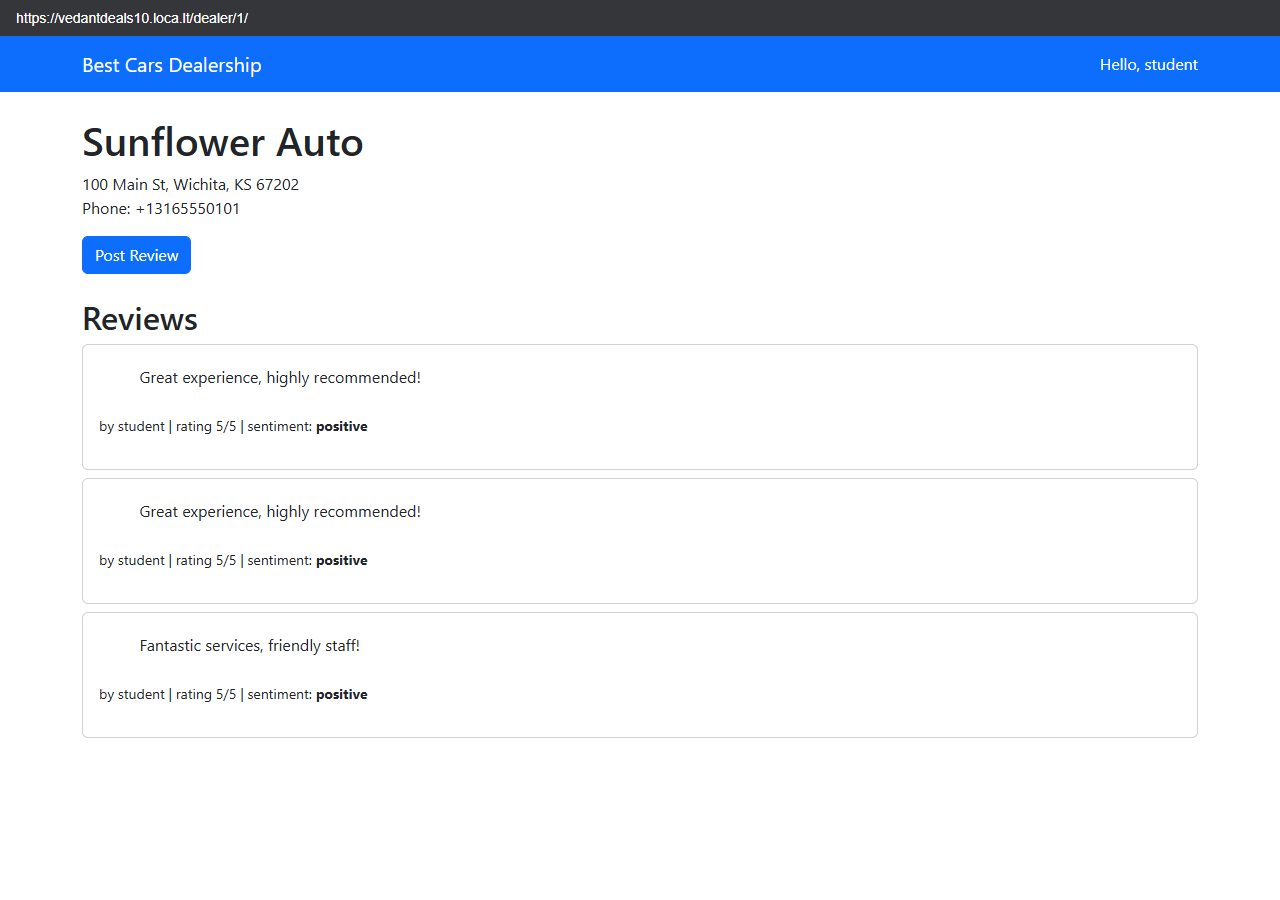
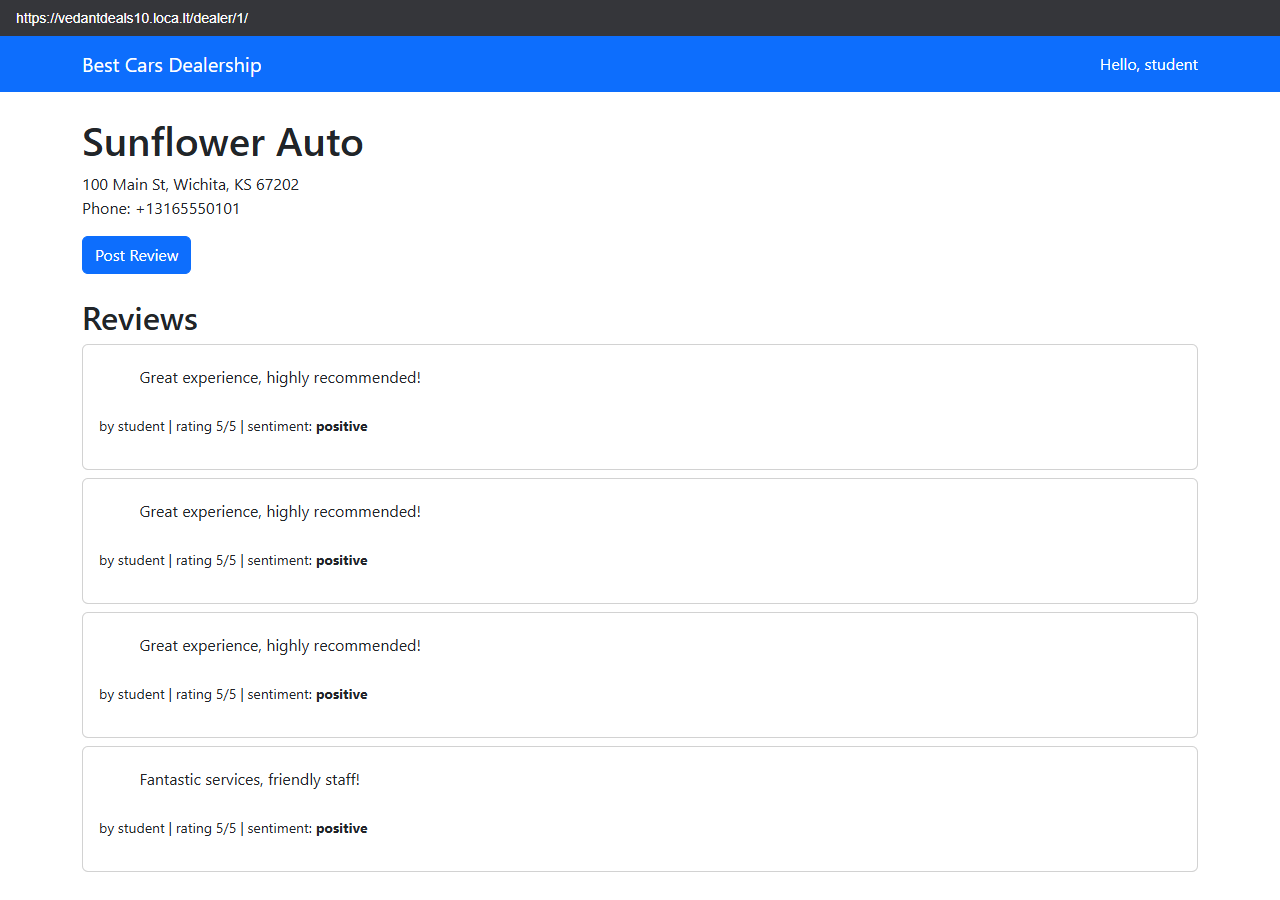
Peer review set: signup/logout pages, framed shots, CI and deploy evidence

Changed region(s): [[0.0625, 0.9022, 0.2812, 0.9333], [0.125, 0.7156, 0.3125, 0.7467], [0.125, 0.84, 0.2812, 0.8711]]

diff --git a/assignment-09-dealership-capstone/server/djangoapp/templates/djangoapp/signup.html b/assignment-09-dealership-capstone/server/djangoapp/templates/djangoapp/signup.html
@@ -1,0 +1,17 @@
+<!DOCTYPE html>
+<html lang="en">
+<head><meta charset="UTF-8" /><title>Sign Up - Best Cars Dealership</title></head>
+<body>
+  <h1>Sign Up</h1>
+  {% if error %}<p style="color:red">{{ error }}</p>{% endif %}
+  <form method="post">
+    {% csrf_token %}
+    <p>Username: <input type="text" name="username" /></p>
+    <p>First Name: <input type="text" name="first_name" /></p>
+    <p>Last Name: <input type="text" name="last_name" /></p>
+    <p>Email: <input type="email" name="email" /></p>
+    <p>Password: <input type="password" name="password" /></p>
+    <button type="submit">Register</button>
+  </form>
+</body>
+</html>

diff --git a/assignment-09-dealership-capstone/server/djangoapp/templates/djangoapp/home.html b/assignment-09-dealership-capstone/server/djangoapp/templates/djangoapp/home.html
@@ -11,7 +11,7 @@
     <div class="container">
       <a class="navbar-brand" href="/">Best Cars Dealership</a>
       <span class="navbar-text text-white">
-        {% if user.is_authenticated %}Hello, {{ user.username }} | <a class="text-white" href="/api/logout/">Logout</a>{% else %}<a class="text-white" href="/login/">Login</a>{% endif %}
+        {% if user.is_authenticated %}Hello, {{ user.username }} | <a class="text-white" href="/logout/">Logout</a>{% else %}<a class="text-white" href="/login/">Login</a>{% endif %}
       </span>
     </div>
   </nav>

diff --git a/assignment-09-dealership-capstone/server/djangoapp/templates/djangoapp/logged_out.html b/assignment-09-dealership-capstone/server/djangoapp/templates/djangoapp/logged_out.html
@@ -1,0 +1,9 @@
+<!DOCTYPE html>
+<html lang="en">
+<head><meta charset="UTF-8" /><title>Logged out - Best Cars Dealership</title></head>
+<body>
+  <h1>You have been logged out</h1>
+  <p id="logout-alert">You have successfully logged out. See you soon!</p>
+  <p><a href="/login/">Log in again</a> | <a href="/">Home</a></p>
+</body>
+</html>

diff --git a/assignment-09-dealership-capstone/server/djangoapp/views.py b/assignment-09-dealership-capstone/server/djangoapp/views.py
@@ -77,6 +77,34 @@ def login_page(request):
     return render(request, 'djangoapp/login.html', {'error': error})
 
 
+def signup_page(request):
+    """Sign-up form page creating a Django user."""
+    from django.contrib.auth.models import User as AuthUser
+    error = ''
+    if request.method == 'POST':
+        username = (request.POST.get('username') or '').strip()
+        if not username or not request.POST.get('password'):
+            error = 'Username and password are required'
+        elif AuthUser.objects.filter(username=username).exists():
+            error = 'Username already taken'
+        else:
+            AuthUser.objects.create_user(
+                username=username,
+                password=request.POST.get('password'),
+                first_name=request.POST.get('first_name', ''),
+                last_name=request.POST.get('last_name', ''),
+                email=request.POST.get('email', ''),
+            )
+            return HttpResponseRedirect('/login/')
+    return render(request, 'djangoapp/signup.html', {'error': error})
+
+
+def logout_page(request):
+    """Log out and show a logout alert page."""
+    logout(request)
+    return render(request, 'djangoapp/logged_out.html')
+
+
 def frame_page(request):
     """Local screenshot helper: renders a browser bar around any page."""
     return render(request, 'djangoapp/frame.html', {'path': request.GET.get('u', '/')})

diff --git a/assignment-09-dealership-capstone/server/djangoapp/urls.py b/assignment-09-dealership-capstone/server/djangoapp/urls.py
@@ -11,6 +11,8 @@ urlpatterns = [
     path('about/', views.about_page, name='about'),
     path('contact/', views.contact_page, name='contact'),
     path('login/', views.login_page, name='login_page'),
+    path('signup/', views.signup_page, name='signup_page'),
+    path('logout/', views.logout_page, name='logout_page'),
     path('frame/', views.frame_page, name='frame'),
     path('dealer/<int:dealer_id>/', views.dealer_detail, name='dealer_detail'),
     path('dealer/<int:dealer_id>/review/', views.add_review_page, name='add_review_page'),
